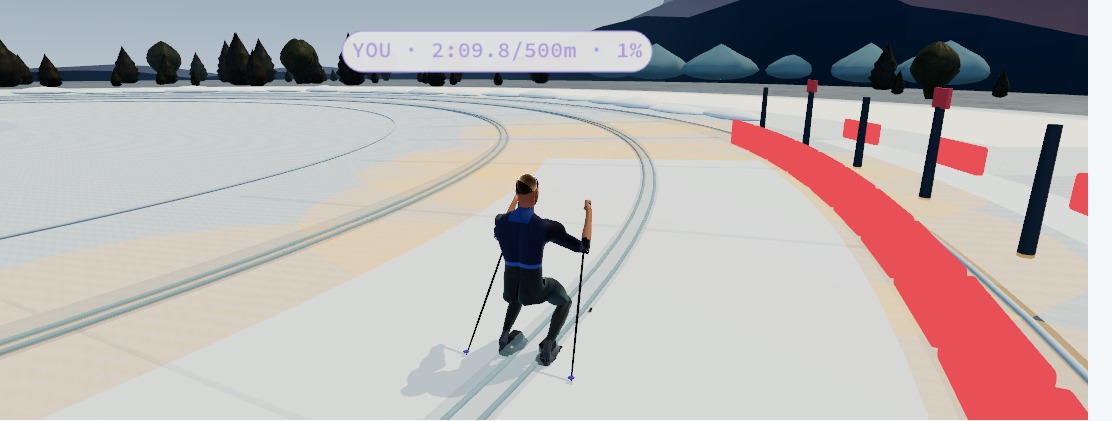
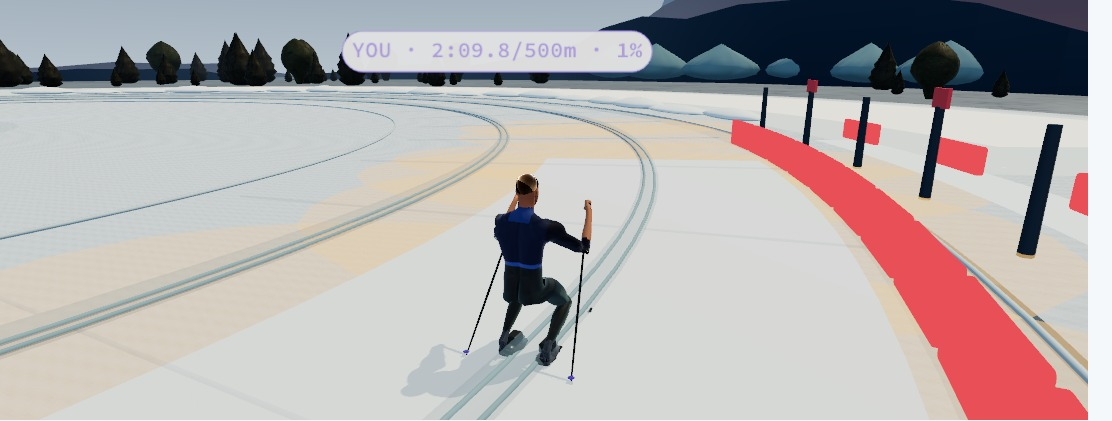
docs(replay): re-capture SkiErg thumb evidence at the merged head
The append guard correctly refused to mix evidence across commits, so the
whole set was re-captured on the post-merge tree rather than half-updated.
The frames now describe the code that merges, and they double as proof the
closure survives #192's per-sport module split: the two grip frames and the
before/after sheet came back byte-identical to the pre-merge capture, so the
hand regions render the same on both sides of the split.

Still no `front` frame, but for a corrected reason. The first pass omitted it
as broken; #194 has since fixed exactly that framing, found while capturing
this evidence. It stays out because the fixed portrait solves against the
head/shoulder mass by design — the hands fall below the frame at the press
and graze its bottom edge at the plant. It is a face lane, not a hands lane,
at every phase, so the bilateral read stays with the before/after sheet.

vp run check: green. 100 files, 1263 tests.

diff --git a/docs/visual-qa/replay-ski-equipment.md b/docs/visual-qa/replay-ski-equipment.md
@@ -94,10 +94,15 @@ opposition, so no test could see it.
 The opposition is now the fitted `SKI_POLE_THUMB_OPPOSE = 1.75`, living in
 [`skiEquipment.ts`](../../src/lib/replay/skiEquipment.ts) beside the rubber it
 was fitted to. The [capture manifest](ski-equipment/in-app/pr-ski-thumb/manifest.json)
-records source commit `0e767d13`. Every frame is a real application capture from
-the Workers-faithful preview (`wrangler dev`) in headed Chromium on the hardware
+records source commit `3c1618aa` — the whole set was re-captured after #192 and
+#194 landed, so the frames describe the code that merges rather than the code as
+first written, and they double as proof that the closure survives the
+per-sport-module split. Every frame is a real application capture from the
+Workers-faithful preview (`wrangler dev`) in headed Chromium on the hardware
 WebGPU backend, at requested **and effective** Ultra, in the production
-1112×420 replay stage, with no browser errors or warnings.
+1112×420 replay stage, with no browser errors or warnings. The served renderer
+chunk was hash-matched to the local build and confirmed to carry the shipped
+1.75 before any frame was taken.
 
 | Frame                                                                                     | Acceptance purpose                                                                                                                                            |
 | ----------------------------------------------------------------------------------------- | ------------------------------------------------------------------------------------------------------------------------------------------------------------- |
@@ -119,10 +124,14 @@ columns is the thumb. Which hand is which is pinned by name in the suite rather
 than read off the pixels: the grip camera's rear-three-quarter framing shows one
 hand from the thumb side and the other from the back.
 
-No `front` frame is included. That capture-only portrait is framed for the
-seated rower and clears only the top of a standing skier's head, so it would add
-an unreadable file rather than a second angle. It is a pre-existing limitation of
-that camera, untouched by this pass.
+No `front` frame is included. The first pass omitted it because that portrait
+was framed for the seated rower and cleared only the top of a standing skier's
+head; [#194](replay-front-portrait.md) has since fixed exactly that, and it was
+found while capturing this evidence. It stays omitted for a different reason:
+the fixed portrait solves against the head/shoulder mass by design, so at the
+press the hands fall below the frame and at the plant they graze its bottom
+edge. It is a face lane, not a hands lane, at every phase — which is why the
+bilateral read here comes from the before/after sheet instead.
 
 Regression cover added with the fix:
 
